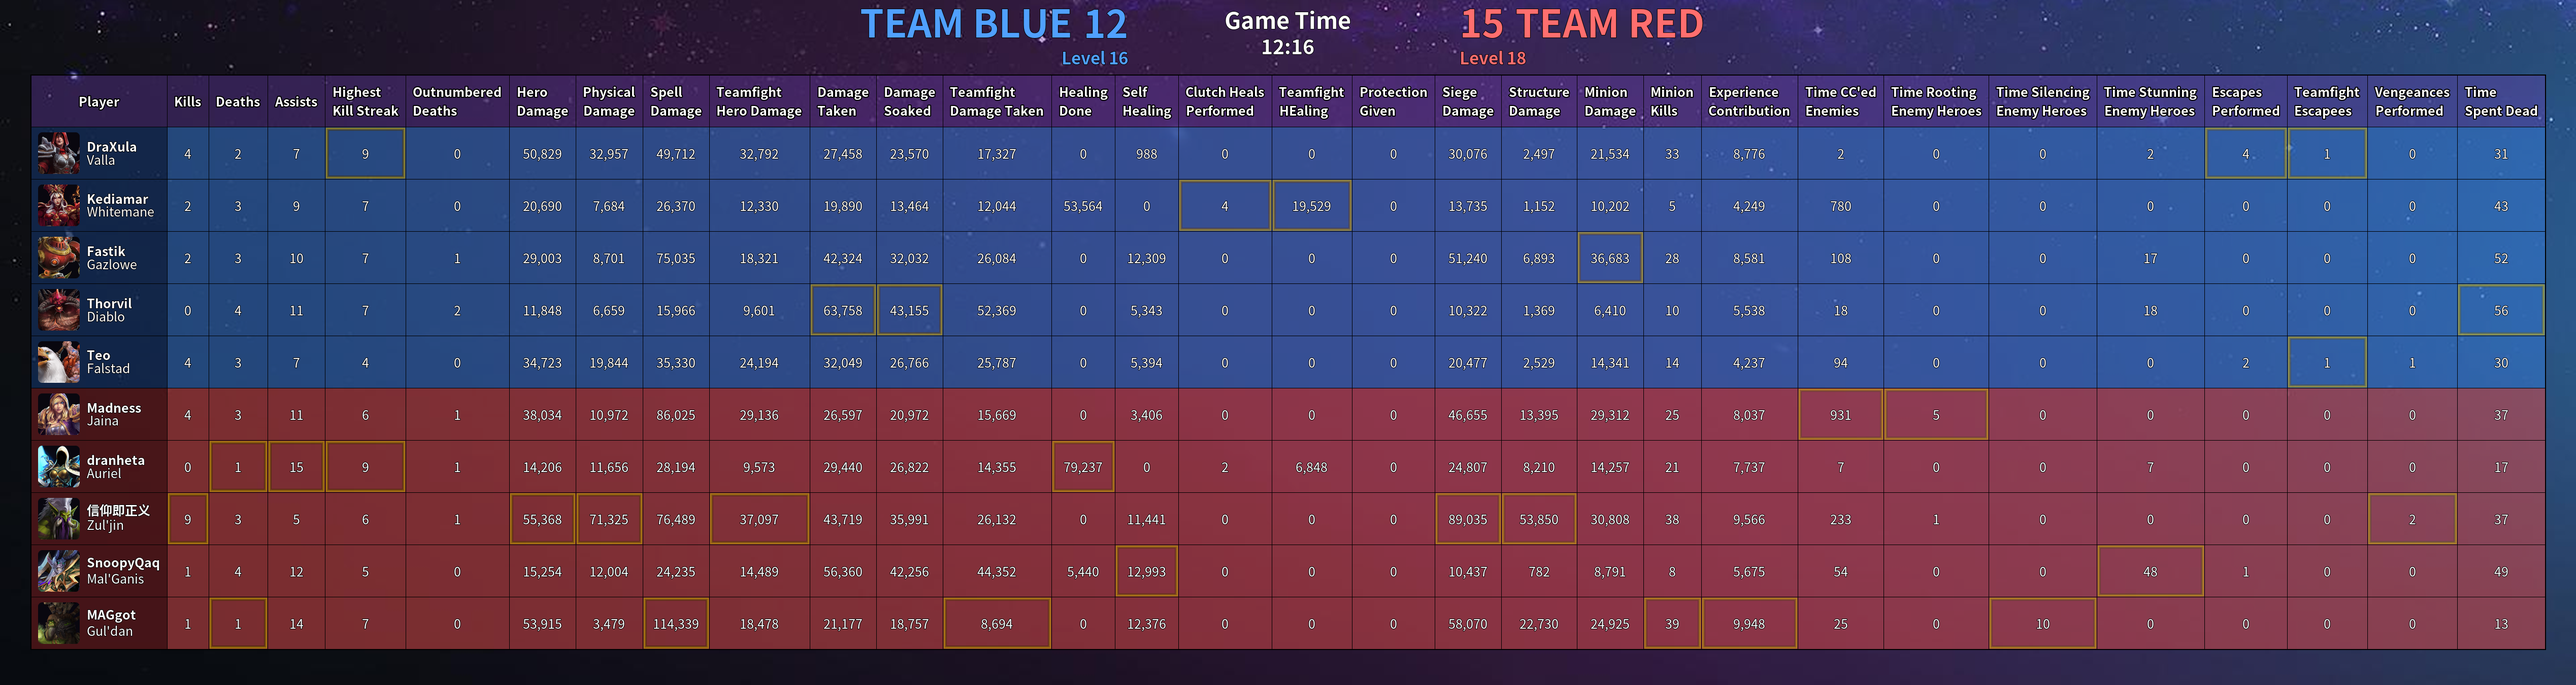
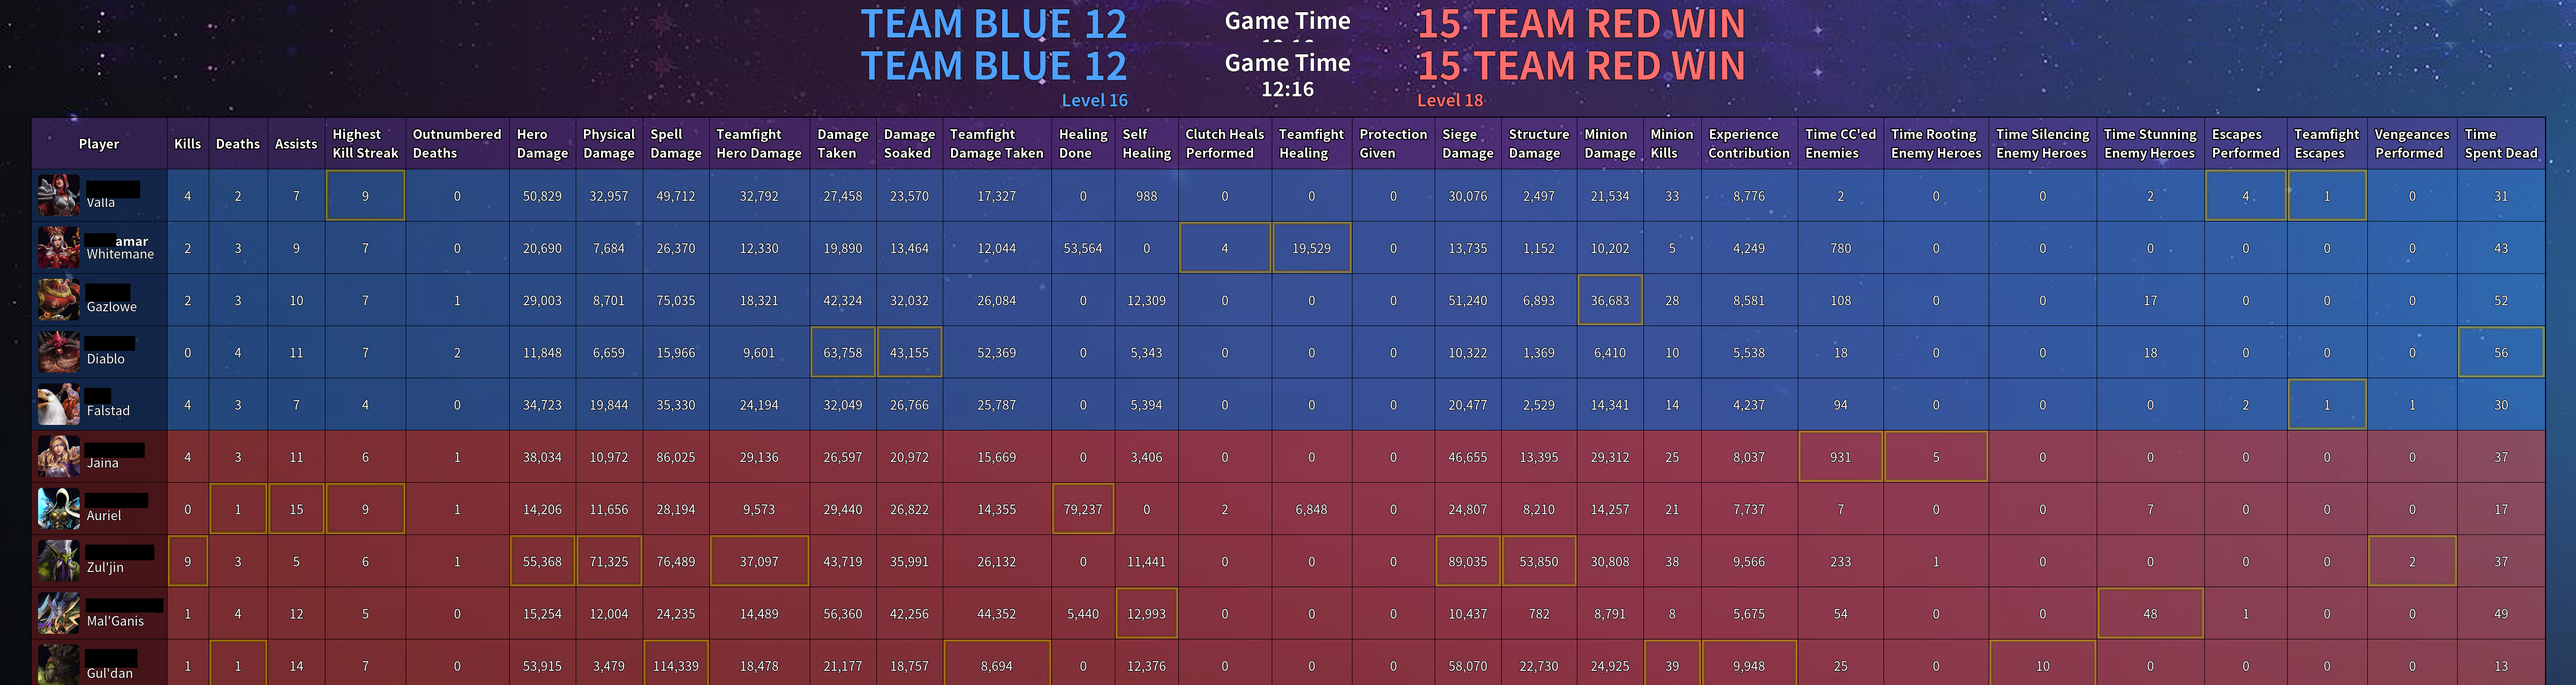
added win loss indicator

diff --git a/app/replay_parser/src/parse_service.py b/app/replay_parser/src/parse_service.py
@@ -1,7 +1,7 @@
 import logging
 import subprocess
 import sys
-from collections.abc import Iterable
+from collections.abc import Iterable, Sequence
 from pathlib import Path
 
 from .extract_replay_details import extract_details_from_file
@@ -133,6 +133,88 @@ def _build_visible_rows(store: InMemoryStatsStore) -> list[tuple[str, list[Value
     return [(row.category, row.values) for row in store.iter_rows() if row.category not in REMOVED_TABLE_CATEGORIES]
 
 
+def _try_int(value: object) -> int | None:
+    """Return int(value) or None if conversion fails."""
+    try:
+        return int(value)  # type: ignore[arg-type]
+    except Exception:
+        return None
+
+
+def _winner_from_counts(blue_wins: int, red_wins: int) -> str | None:
+    """Return the winning team label from win counts."""
+    if blue_wins > red_wins:
+        return "blue"
+    if red_wins > blue_wins:
+        return "red"
+    return None
+
+
+def _count_wins_by_team_id(players: Sequence[object]) -> tuple[int, int, bool]:
+    """Count wins using teamId/result attributes; returns (blue_wins, red_wins, has_data)."""
+    blue_wins = 0
+    red_wins = 0
+    has_any = False
+
+    for p in players:
+        team_id = getattr(p, "teamId", None)
+        result = getattr(p, "result", None)
+        if team_id not in (0, 1) or result is None:
+            continue
+
+        result_int = _try_int(result)
+        if result_int is None:
+            continue
+
+        # heroprotocol uses 1=win, 2=loss (observed in output-all.txt)
+        has_any = True
+        if result_int != 1:
+            continue
+
+        if int(team_id) == 0:
+            blue_wins += 1
+        else:
+            red_wins += 1
+
+    return blue_wins, red_wins, has_any
+
+
+def _count_wins_by_halves(players: Sequence[object]) -> tuple[int, int]:
+    """Count wins using first-half/second-half ordering as a fallback."""
+    half = max(1, len(players) // 2)
+    blue_wins = 0
+    red_wins = 0
+
+    for idx, p in enumerate(players):
+        result = getattr(p, "result", None)
+        if result is None:
+            continue
+
+        result_int = _try_int(result)
+        if result_int != 1:
+            continue
+
+        if idx < half:
+            blue_wins += 1
+        else:
+            red_wins += 1
+
+    return blue_wins, red_wins
+
+
+def _derive_winning_team(players: Sequence[object]) -> str | None:
+    """Return 'blue' or 'red' when a winner can be inferred from player results."""
+    if not players:
+        return None
+
+    blue_wins, red_wins, has_team_data = _count_wins_by_team_id(players)
+    if has_team_data:
+        return _winner_from_counts(blue_wins, red_wins)
+
+    blue_wins, red_wins = _count_wins_by_halves(players)
+    return _winner_from_counts(blue_wins, red_wins)
+
+
 def parse_and_build_table(replay: str) -> bytes:
     """Parse a replay file and build a statistics table."""
     artifacts = parse_replay_with_cli(replay, flags=["--details", "--trackerevents", "--header"])
@@ -147,6 +229,10 @@ def parse_and_build_table(replay: str) -> bytes:
         player_labels = [(player.name or "") for player in table_header.players]
 
         player_count = len(player_labels)
+
+        winning_team = _derive_winning_team(table_header.players)
+        team_blue_name = "TEAM BLUE" + (" WIN" if winning_team == "blue" else "")
+        team_red_name = "TEAM RED" + (" WIN" if winning_team == "red" else "")
 
         store = InMemoryStatsStore(player_labels=player_labels)
 
@@ -173,8 +259,8 @@ def parse_and_build_table(replay: str) -> bytes:
             player_hero_names=hero_names,
             player_hero_portrait_paths=hero_portrait_paths,
             team_header=TeamHeaderOptions(
-                team_blue_name="TEAM BLUE",
-                team_red_name="TEAM RED",
+                team_blue_name=team_blue_name,
+                team_red_name=team_red_name,
                 team_blue_level=team_blue_level,
                 team_red_level=team_red_level,
                 team_blue_kills=team_blue_kills,

diff --git a/tests/test_parse_service_cleanup.py b/tests/test_parse_service_cleanup.py
@@ -83,3 +83,36 @@ def test_parse_and_build_table_cleans_up_even_on_error(monkeypatch: pytest.Monke
 
     for value in artifacts.values():
         assert not Path(value).exists()
+
+
+def test_derive_winning_team_uses_team_id_and_result():
+    """Derive winning team from teamId + result (1=win, 2=loss)."""
+
+    class P:
+        def __init__(self, team_id: int, result: int):
+            setattr(self, "teamId", team_id)
+            self.result = result
+
+    players = [
+        P(0, 2),
+        P(0, 2),
+        P(1, 1),
+        P(1, 1),
+    ]
+    assert parse_service._derive_winning_team(players) == "red"
+
+
+def test_derive_winning_team_falls_back_to_halves_when_team_id_missing():
+    """Fall back to first-half/second-half ordering if teamId is unavailable."""
+
+    class P:
+        def __init__(self, result: int):
+            self.result = result
+
+    players = [
+        P(1),
+        P(1),
+        P(2),
+        P(2),
+    ]
+    assert parse_service._derive_winning_team(players) == "blue"
